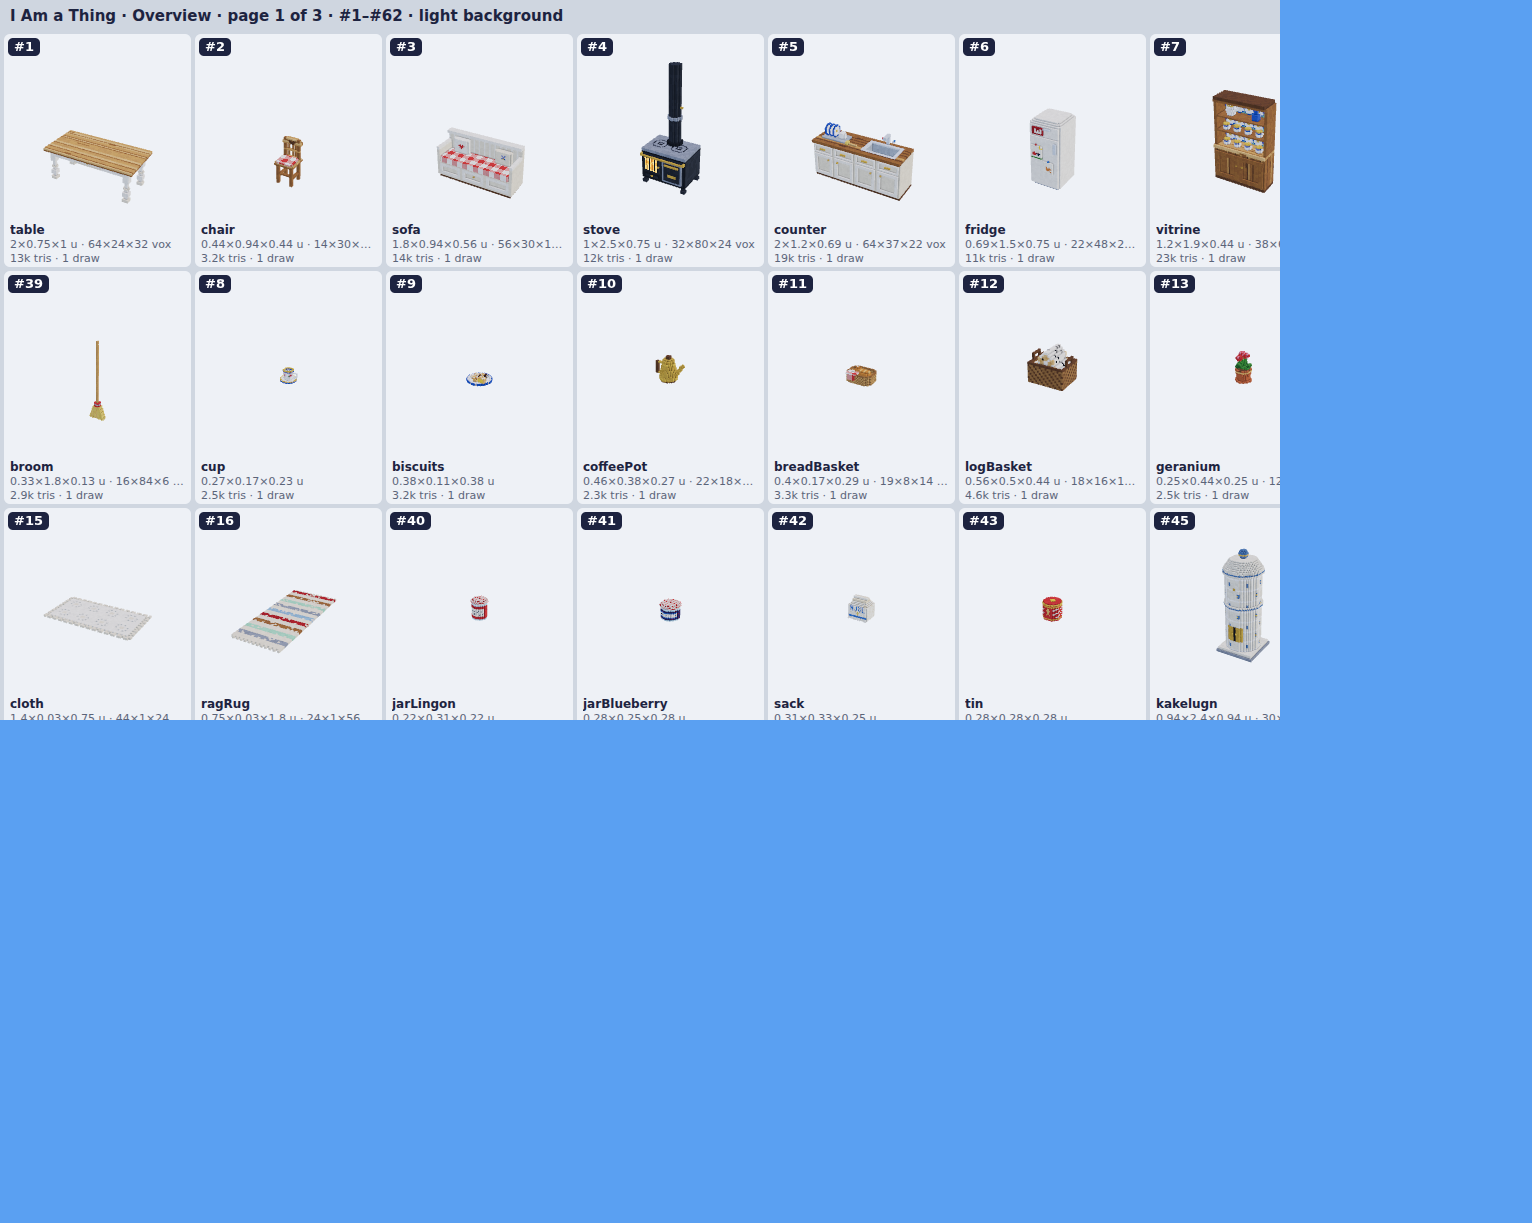
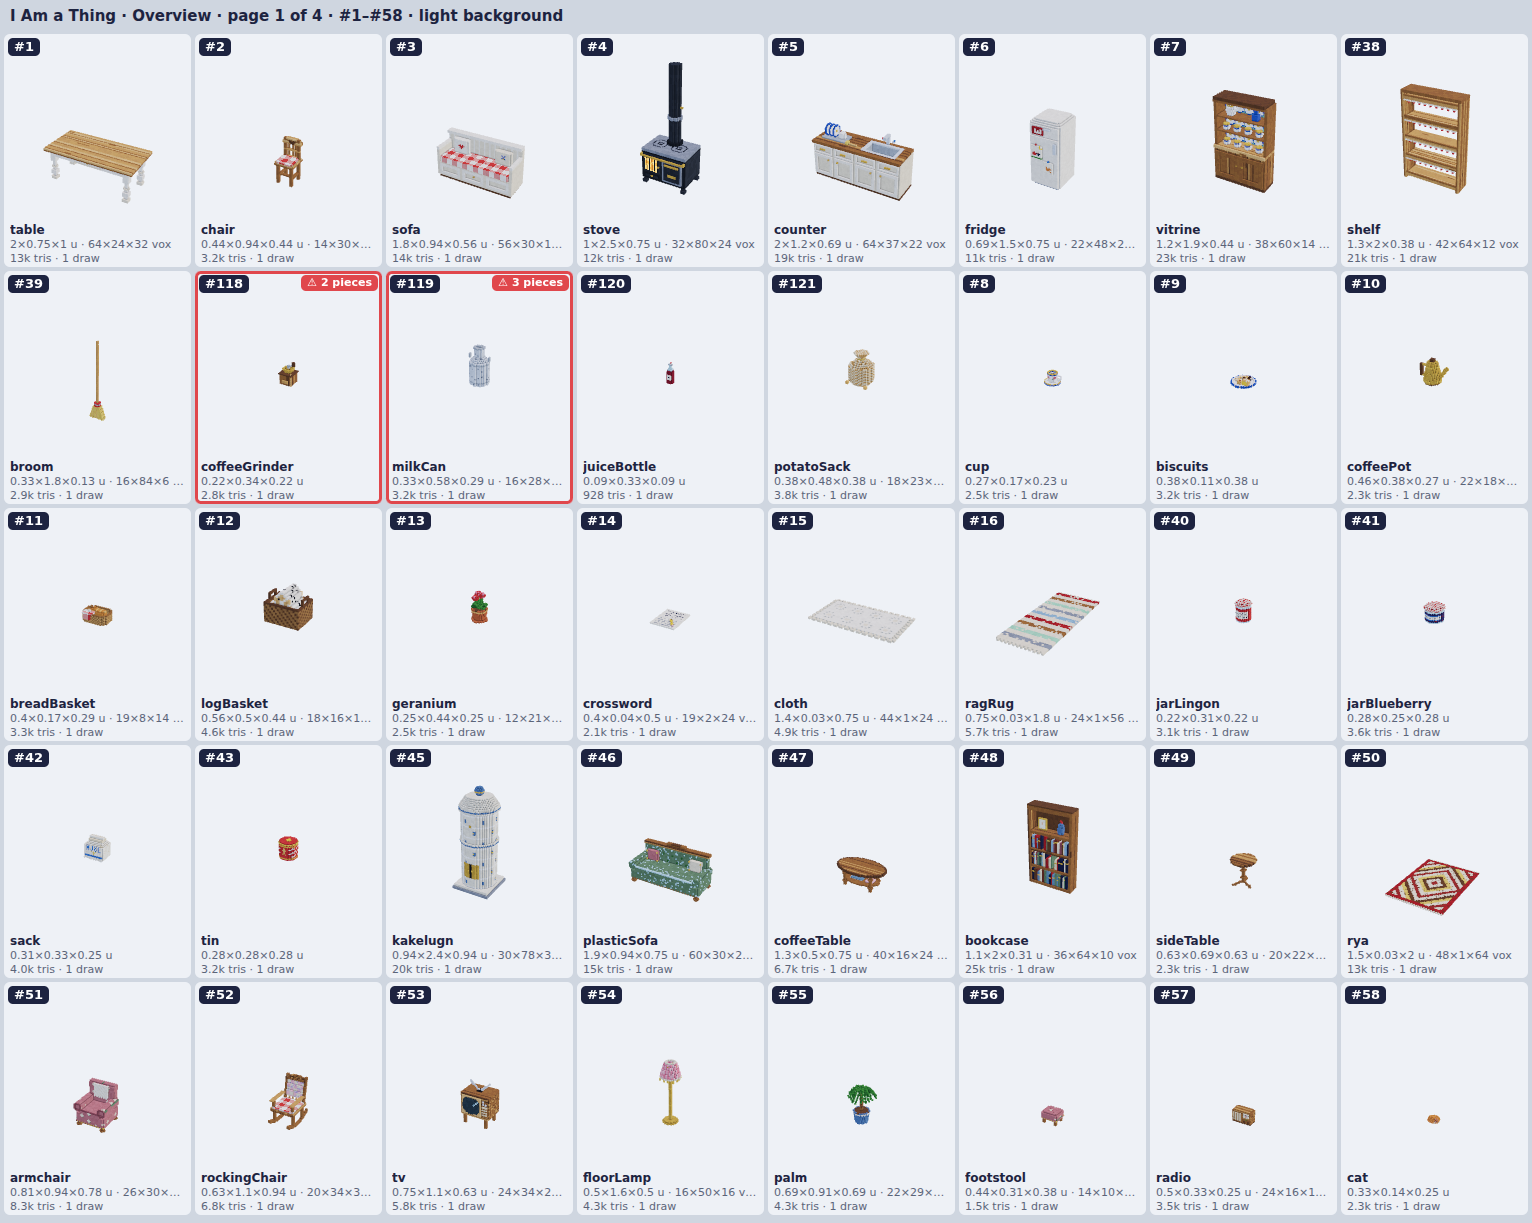
Gökuren slår varje minut; moraklocka, hallbänk, blomsterpallar, skor, våg
Every whole minute of the seeking the cuckoo clock strikes: ko-ko, a
banner, and every small real thing in the house rattles on its base, so a
vätte that stands quite still through it is the one thing that doesn't.

More to hide as in the thin rooms: a painted Mora clock and a plant stand
with ivy in the hall, shoes in farstun, a bathroom scale. The front door
is seen from the path too; floating parts joined (grinder crank, churn
handles, ivy, the barrow's axle); a darker bathroom floor.

Claude-Session: https://claude.ai/code/session_01Y6MZe7NhWEZPxEuSNh2RSa

diff --git a/models-hall.ts b/models-hall.ts
@@ -224,7 +224,72 @@ function globeGlow(k: Ids) {
   return hang(v, 1 / 40);
 }
 
+/** Moraklockan: a tall painted long-case clock, curved like a woman's figure, a round face, a crown on top, a pendulum window. */
+function moraClock(k: Ids) {
+  const v = new Volume(18, 72, 12);
+  for (let y = 0; y < 66; y++) {
+    const w = y < 6 ? 8 : y < 50 ? 6.2 + 1.8 * Math.cos(((y - 6) / 44) * Math.PI * 2) * 0.5 + (y > 36 ? (y - 36) * 0.12 : 0) : 8.2;
+    box(v, Math.round(9 - w), y, 1, Math.round(9 + w), y + 1, 11, y < 2 ? k.WOOD_DEEP : k.ALLMOGE);
+  }
+  for (let y = 18; y < 40; y++) dot(v, 9, y, 11, y % 9 === 0 ? k.GOLD : k.CREAM);   // the painted stripe down the waist
+  for (const [y0, cx] of [[12, 9], [28, 9]] as const) for (const [dx, dy, c] of [[0, 0, k.ALLMOGE_RED], [-1, 0, k.RED], [1, 0, k.RED], [0, 1, k.WHITE], [0, -1, k.GREEN], [-2, -1, k.GREEN], [2, -1, k.GREEN]] as const) dot(v, cx + dx, y0 + dy, 11, c);
+  box(v, 6, 40, 11, 12, 48, 12, k.GLASS);                    // the pendulum window
+  blob(v, 9, 42.5, 11.5, 1.6, 1.6, 0.5, k.GOLD);
+  for (let y = 50; y < 66; y++) for (let x = 1; x < 17; x++) {
+    const d = Math.hypot(x + 0.5 - 9, y + 0.5 - 58);
+    if (d < 6.6) dot(v, x, y, 11, d > 5.8 ? k.GOLD : d < 0.8 ? k.BRASS : k.PORC);
+  }
+  for (let i = 0; i < 12; i++) { const a = (i / 12) * Math.PI * 2; dot(v, Math.floor(9 + Math.sin(a) * 4.8), Math.floor(58 + Math.cos(a) * 4.8), 11, k.INK); }
+  line(v, [9, 58, 11.5], [9, 62, 11.5], k.INK);
+  line(v, [9, 58, 11.5], [12, 57, 11.5], k.INK);
+  for (let y = 66; y < 72; y++) { const w = 8 - (y - 66) * 1.2; if (w > 0) box(v, Math.round(9 - w), y, 1, Math.round(9 + w), y + 1, 11, y === 66 ? k.GOLD : k.ALLMOGE); }
+  return prop(v, H);
+}
+
+/** Hallbänken: a long painted bench with a lid seat and a cushion. */
+function hallBench(k: Ids) {
+  const v = new Volume(40, 28, 14);
+  box(v, 0, 0, 0, 40, 14, 13, k.ALLMOGE);
+  for (const [x0, x1] of [[2, 19], [21, 38]]) { box(v, x0, 2, 13, x1, 12, 14, k.ALLMOGE); box(v, x0 + 2, 4, 13, x1 - 2, 10, 14, k.CREAM); }
+  box(v, 0, 14, 0, 40, 15, 14, k.WOOD_DARK);
+  roundBox(v, 2, 15, 2, 38, 17, 13, 2, k.GINGHAM);
+  box(v, 0, 15, 0, 40, 28, 2, k.ALLMOGE);
+  box(v, 0, 26, 0, 40, 28, 3, k.WOOD_DARK);
+  return prop(v, H);
+}
+
+/** En blomsterpall: a turned plant stand with a pot of trailing ivy. */
+function plantStand(k: Ids) {
+  const v = new Volume(16, 44, 16);
+  lathe(v, 8, 8, 0, 2, () => 6, k.WOOD_DARK);
+  lathe(v, 8, 8, 2, 28, (y) => (y % 7 === 0 ? 2 : 1.2), k.WOOD_DARK);
+  lathe(v, 8, 8, 28, 30, () => 6.4, k.WOOD_DARK);
+  lathe(v, 8, 8, 30, 36, (y) => 3.6 + (y - 30) * 0.3, k.POT);
+  for (let i = 0; i < 7; i++) {
+    const a = (i / 7) * Math.PI * 2;
+    // A strand of ivy from the pot's rim, trailing down over the stand.
+    const at = (s: number): [number, number, number] => [8 + Math.cos(a + s * 0.08) * (3.6 + s * 0.35), 36 - s * 1.3, 8 + Math.sin(a + s * 0.08) * (3.6 + s * 0.35)];
+    for (let s = 0; s < 13; s++) line(v, at(s), at(s + 1), s % 3 === 0 ? k.LEAF : k.GREEN);
+  }
+  blob(v, 8, 38, 8, 4, 2.5, 4, speckle(k.GREEN, k.LEAF, 0.3, 75));
+  return prop(v, H);
+}
+
+/** Ett par skor: polished brown lace-ups. */
+function shoes(k: Ids) {
+  const v = new Volume(14, 7, 16);
+  for (const x0 of [0, 8]) {
+    roundBox(v, x0, 0, 0, x0 + 6, 1, 16, 2, k.SOOT);
+    roundBox(v, x0, 1, 0, x0 + 6, 4, 16, 2, k.MAHOGANY);
+    roundBox(v, x0, 4, 0, x0 + 6, 6, 7, 2, k.MAHOGANY);
+    for (let z = 6; z < 11; z += 2) { dot(v, x0 + 2, 4, z, k.CREAM); dot(v, x0 + 3, 4, z, k.CREAM); }
+    dot(v, x0 + 2, 3, 15, k.WOOD_LIGHT);
+  }
+  return prop(v, Q);
+}
+
 export const HALL_MODELS = {
+  moraClock, hallBench, plantStand, shoes,
   hatRack, boots, umbrella, umbrellaStand, stool, phone, phoneTable, mirror, runner, frontDoor, doormat, shoeRack,
   hat, handbag, globeLamp, globeGlow,
 };

diff --git a/gallery.ts b/gallery.ts
@@ -17,14 +17,14 @@ const WALL: ModelKey[] = ['upper', 'curtains', 'lamp', 'bulb', 'potholder', 'clo
 /** The rest of the house, room by room: furniture first, then what a vätte can be. */
 const ROOMS_GALLERY: [string, ModelKey[]][] = [
   ['Vardagsrummet', ['kakelugn', 'plasticSofa', 'coffeeTable', 'bookcase', 'sideTable', 'rya', 'armchair', 'rockingChair', 'tv', 'floorLamp', 'palm', 'footstool', 'radio', 'cat', 'bookStack', 'album', 'doily', 'dalahorse', 'dalahorseBlue']],
-  ['Hallen och farstun', ['phoneTable', 'shoeRack', 'umbrellaStand', 'runner', 'doormat', 'stool', 'boots', 'umbrella', 'phone', 'hat', 'handbag']],
+  ['Hallen och farstun', ['moraClock', 'hallBench', 'plantStand', 'shoes', 'phoneTable', 'shoeRack', 'umbrellaStand', 'runner', 'doormat', 'stool', 'boots', 'umbrella', 'phone', 'hat', 'handbag']],
   ['Sovrummet', ['bed', 'wardrobe', 'nightstand', 'dresser', 'pillow', 'hatbox', 'slippers', 'alarmClock', 'teeth', 'tableLamp']],
-  ['Badrummet', ['bathtub', 'washbasin', 'toilet', 'bathMat', 'laundryBasket', 'foldedTowel', 'soapDish', 'duck', 'rollDoll', 'chamberPot']],
+  ['Badrummet', ['scale', 'bathtub', 'washbasin', 'toilet', 'bathMat', 'laundryBasket', 'foldedTowel', 'soapDish', 'duck', 'rollDoll', 'chamberPot']],
   ['Trädgården', ['gardenTable', 'woodpile', 'birdBath', 'currantBush', 'rake', 'gardenChair', 'wheelbarrow', 'rainBarrel', 'gnome', 'wateringCan', 'flowerPotYellow', 'flowerPotRed', 'log', 'kubb', 'kubbKing']],
   ['Syrummet', ['workTable', 'ironingBoard', 'yarnBasket', 'sewingMachine', 'chest', 'dressForm', 'fabricBolt', 'sewingTin', 'iron', 'yarnRed', 'yarnBlue', 'yarnYellow']],
 ];
 /** Pairs (boots, slippers): two pieces on purpose. */
-const PAIRS: ModelKey[] = ['boots', 'slippers'];
+const PAIRS: ModelKey[] = ['boots', 'slippers', 'shoes'];
 const WALL_ROOMS: ModelKey[] = ['cuckooClock', 'portrait', 'laceCurtains', 'chandelier', 'hatRack', 'mirror', 'frontDoor', 'globeLamp', 'painting', 'mirrorCabinet', 'towelRail'];
 const GLOW_OF: Partial<Record<ModelKey, ModelKey>> = { lamp: 'lampGlow', bulb: 'bulbGlow', chandelier: 'chandelierGlow', globeLamp: 'globeGlow', floorLamp: 'floorLampGlow', tableLamp: 'tableLampGlow' };
 

diff --git a/game.ts b/game.ts
@@ -20,7 +20,7 @@ import { GUN_VOXEL, KUSIN_VOXEL, VATTE_VOXEL, dart, kusin, kusinLook, suctionGun
 import { Core, type Cue, type Pawn } from './core';
 import { PHOTOS, type LookName, type PhotoPoint } from './look';
 import { buildModels, type ModelKey } from './models';
-import { MAX_HP, WRONG, type Phase } from './rules';
+import { MAX_HP, SEEK_MS, WRONG, type Phase } from './rules';
 import { KitchenScene } from './scene';
 import { SOUNDS } from './sounds';
 import { BLOCKS, TEXTURES, type Ids } from './textures';
@@ -93,6 +93,8 @@ export class Shooter implements GameStage {
   private photoAt: PhotoPoint | null = null;
   private readonly shownFrags = new Map<string, string>();
   private lastTick = -1;
+  /** The last whole minute of the seeking the cuckoo clock struck. */
+  private cuckooMinute = 0;
   /** The role the touch buttons are set for. */
   private touchRole: 'k' | 'v' | null = null;
   /** Who won the round that just ended, for the board. */
@@ -478,6 +480,16 @@ export class Shooter implements GameStage {
     const st = me ? core.match.stats.get(me.pid) : undefined, playing = !!me && flow.live && core.alive(me);
     const left = Math.max(0, (core.match.until - link.now()) / 1000);
     // The last ten seconds of hiding (or seeking) tick.
+    // Gökuren slår every whole minute of the seeking: ko-ko, and every small real thing in the house
+    // rattles. (A vätte that stands quite still through it is the one thing that doesn't.)
+    const minute = flow.live && core.phase === 'seek' ? Math.floor((SEEK_MS - left * 1000) / 60_000) : 0;
+    if (minute > this.cuckooMinute) {
+      this.sfx.play(SOUNDS.cuckoo);
+      this.sfx.play(SOUNDS.rattle);
+      this.hud.center(`Gökuren slår ${minute}! <small>Allt smått skramlar</small>`);
+      for (const th of REAL_THINGS) if (th.h < 0.4 && th.y > -0.2) this.kitchen.wobble(th.p);
+    }
+    this.cuckooMinute = minute;
     if (flow.live && core.phase !== 'wait' && core.phase !== 'end' && left < 10.5 && Math.ceil(left) !== this.lastTick) {
       this.lastTick = Math.ceil(left);
       if (this.lastTick > 0) this.sfx.play(SOUNDS.tick);

diff --git a/things.ts b/things.ts
@@ -63,6 +63,9 @@ export const FORMS: readonly FormDef[] = [
   { key: 'phone', name: 'telefon', some: 'telefoner', the: 'telefonerna', hp: 1, speed: 0.95 },
   { key: 'hat', name: 'hatt', some: 'hattar', the: 'hattarna', hp: 1, speed: 1 },
   { key: 'handbag', name: 'handväska', some: 'handväskor', the: 'handväskorna', hp: 1, speed: 0.95 },
+  { key: 'moraClock', name: 'moraklocka', some: 'moraklockor', the: 'moraklockorna', hp: 4, speed: 0.3 },
+  { key: 'plantStand', name: 'blomsterpall', some: 'blomsterpallar', the: 'blomsterpallarna', hp: 2, speed: 0.6 },
+  { key: 'shoes', name: 'par skor', some: 'par skor', the: 'skorna', hp: 1, speed: 1, ett: true },
   // Sovrummet.
   { key: 'pillow', name: 'kudde', some: 'kuddar', the: 'kuddarna', hp: 1, speed: 0.95 },
   { key: 'alarmClock', name: 'väckarklocka', some: 'väckarklockor', the: 'väckarklockorna', hp: 1, speed: 1 },
@@ -77,6 +80,7 @@ export const FORMS: readonly FormDef[] = [
   { key: 'duck', name: 'badanka', some: 'badankor', the: 'badankorna', hp: 1, speed: 1.1 },
   { key: 'laundryBasket', name: 'tvättkorg', some: 'tvättkorgar', the: 'tvättkorgarna', hp: 2, speed: 0.75 },
   { key: 'rollDoll', name: 'toarullsdocka', some: 'toarullsdockor', the: 'toarullsdockorna', hp: 1, speed: 1 },
+  { key: 'scale', name: 'badrumsvåg', some: 'badrumsvågar', the: 'badrumsvågarna', hp: 1, speed: 0.9 },
   { key: 'chamberPot', name: 'potta', some: 'pottor', the: 'pottorna', hp: 1, speed: 0.9 },
   // Syrummet.
   { key: 'sewingMachine', name: 'symaskin', some: 'symaskiner', the: 'symaskinerna', hp: 2, speed: 0.6 },

diff --git a/props.ts b/props.ts
@@ -84,11 +84,18 @@ export const HALL_PROPS: Placed[] = [
   t('umbrella', 9.75, 0, 7.25, 0),
   t('handbag', -6.75, 0, 7.2, 0.5),
   t('bookStack', 9.6, 0, 5.6, 0.8),
+  t('moraClock', -2.0, 0, 7.3, N, { solid: true }),
+  f('hallBench', 6.5, 0, 5.47, 0),
+  t('plantStand', 4.2, 0, 5.5, 0.3),
+  t('plantStand', -6.65, 0, 7.15, 1.2),
+  t('shoes', 5.6, 0, 7.2, 0.3),
+  t('handbag', 6.9, 0.53, 5.5, 0.2),
 ];
 
 /** Farstun: the front door (closed: the kusiner start here), the mat, shoes, boots, umbrellas, coats on hooks. */
 export const ENTRY_PROPS: Placed[] = [
   p('frontDoor', 3.0, 0, 10, N),
+  p('frontDoor', 3.0, 0, 10.25, 0),   // the same door seen from the front path
   p('doormat', 3.0, 0, 9.55, 0),
   f('shoeRack', 1.92, 0, 8.9, E),
   p('hatRack', 4.25, 0.75, 8.9, W),
@@ -101,6 +108,8 @@ export const ENTRY_PROPS: Placed[] = [
   t('stool', 2.35, 0, 8.05, 0.9),
   t('hat', 2.35, 0.4375, 8.05, 0.2),
   t('handbag', 2.0, 0.375, 8.45, E),
+  t('shoes', 2.1, 0, 7.95, 0.2),
+  t('shoes', 3.3, 0, 9.6, 2.9),
 ];
 
 /** Badrummet: the clawfoot tub, the basin under its mirror cabinet, the toilet, towels, a duck in the bath. */
@@ -123,6 +132,7 @@ export const BATH_PROPS: Placed[] = [
   t('laundryBasket', -1.45, 0, 8.05, 0),
   t('rollDoll', 1.3, 0, 10.25, W),
   t('chamberPot', -0.05, 0, 10.25, 0.5),
+  t('scale', 0.75, 0, 9.95, W + 0.3),
 ];
 
 /** Sovrummet: the bed against the east wall between two nightstands, the dresser, the wardrobe with hat boxes on top. */

diff --git a/sounds.ts b/sounds.ts
@@ -168,6 +168,24 @@ export const SOUNDS = {
     reverb: 0.2,
     layers: [{ wave: 'sine', freq: 1568, steps: [0, -5], stepTime: 0.18, env: { a: 0.01, d: 0.4, s: 0 }, dur: 0.38 }],
   },
+  /** Gökuren: "ko-ko" twice, a wooden whistle with a little bellows breath. */
+  cuckoo: {
+    vol: 0.4,
+    reverb: 0.3,
+    layers: [
+      { wave: 'triangle', freq: 784, steps: [0, -4, -100, 0, -4], stepTime: 0.28, env: { a: 0.01, d: 0.2, s: 0.3, r: 0.08 }, dur: 1.3, vol: 0.8, filter: { type: 'lowpass', freq: 2400 } },
+      { wave: 'noise', env: { a: 0.02, d: 0.12, s: 0 }, vol: 0.12, filter: { type: 'bandpass', freq: 1200 } },
+    ],
+  },
+  /** Everything small in the house rattles on its shelf. */
+  rattle: {
+    vol: 0.22,
+    // Many little knocks: short noise bursts stepped quickly, like china and tins on a shelf.
+    layers: [
+      { wave: 'noise', steps: [0, 0, 0, 0, 0, 0, 0, 0], stepTime: 0.06, env: { a: 0.002, d: 0.03, s: 0 }, dur: 0.5, vol: 0.7, filter: { type: 'bandpass', freq: 3200 } },
+      { wave: 'triangle', freq: 2600, steps: [0, 3, -2, 5, 0, 4], stepTime: 0.07, env: { a: 0.001, d: 0.03, s: 0 }, dur: 0.45, vol: 0.25 },
+    ],
+  },
   /** A tick for the last seconds of a phase. */
   tick: {
     vol: 0.18,

diff --git a/models.ts b/models.ts
@@ -600,7 +600,7 @@ function coffeeGrinder(k: Ids) {
   box(v, 0, 10, 0, 14, 11, 14, k.WOOD_DEEP);
   lathe(v, 7, 7, 11, 15, (y) => 3.2 + (y - 11) * 0.7, k.BRASS, (y) => (y < 12 ? 0 : 2.2 + (y - 11) * 0.7));
   lathe(v, 7, 7, 11, 13, () => 1.4, k.COFFEE);
-  box(v, 6, 15, 6, 8, 18, 8, k.STEEL);
+  box(v, 6, 11, 6, 8, 18, 8, k.STEEL);
   line(v, [7, 17.5, 7], [12.5, 18.5, 7], k.STEEL);
   lathe(v, 12.5, 7.5, 18, 22, () => 1.1, k.WOOD_DEEP);
   return prop(v, S);
@@ -612,7 +612,7 @@ function milkCan(k: Ids) {
   lathe(v, 8, 8, 0, 26, (y) => (y < 16 ? 6.6 : y < 20 ? 6.6 - (y - 16) * 0.9 : 3.2), (x, y, z) => (y === 2 || y === 15 ? k.STEEL : hash(x, y, z, 111) < 0.05 ? k.GREY : k.STEEL_LIGHT));
   lathe(v, 8, 8, 26, 27, () => 3.8, k.STEEL);
   box(v, 6, 27, 7, 10, 28, 9, k.STEEL);
-  for (const x of [0, 15]) box(v, x, 18, 7, x + 1, 21, 9, k.STEEL);
+  for (const x of [0, 15]) box(v, x, 10, 7, x + 1, 13, 9, k.STEEL);
   return prop(v, Q);
 }
 

diff --git a/models-badrum.ts b/models-badrum.ts
@@ -161,7 +161,21 @@ function bathMat(k: Ids) {
   return prop(v, H);
 }
 
+/** Badrumsvågen: an old white scale with a round dial and a ribbed rubber mat. */
+function scale(k: Ids) {
+  const v = new Volume(18, 5, 22);
+  roundBox(v, 0, 0, 0, 18, 3, 22, 3, k.CERAMIC);
+  for (let z = 7; z < 20; z++) for (let x = 2; x < 16; x++) if (z % 2) dot(v, x, 3, z, k.GREY);
+  for (let x = 4; x < 14; x++) for (let z = 1; z < 7; z++) {
+    const d = Math.hypot(x + 0.5 - 9, z + 0.5 - 4);
+    if (d < 3) dot(v, x, 3, z, d > 2.3 ? k.STEEL_LIGHT : d < 0.6 ? k.RED : k.PAPER);
+  }
+  line(v, [9, 3.5, 4], [10.5, 3.5, 2.6], k.RED);
+  return prop(v, Q);
+}
+
 export const BATH_MODELS = {
+  scale,
   bathtub, washbasin, toilet, mirrorCabinet, foldedTowel, soapDish, duck, laundryBasket, rollDoll, chamberPot, towelRail, bathMat,
 };
 export { angleOf };

diff --git a/models-tradgard.ts b/models-tradgard.ts
@@ -62,7 +62,7 @@ function wheelbarrow(k: Ids) {
     for (const x of [10, 11]) dot(v, x, Math.floor(6 + Math.sin(a) * 5.4), Math.floor(45 + Math.cos(a) * 5.4), k.IRON);
   }
   cylX(v, 6, 45, 4.6, 10, 12, k.WOOD);
-  cylX(v, 6, 45, 1, 9, 13, k.IRON);
+  cylX(v, 6, 45, 1, 2, 20, k.IRON);   // the axle, through the wheel to both handles
   for (const x of [2, 18]) {
     line(v, [x + 0.5, 6.5, 45], [x + 0.5, 15, 2], k.WOOD_DARK, 0.9);
     line(v, [x + 0.5, 12, 14], [x + 0.5, 0.5, 16], k.WOOD_DARK, 0.8);

diff --git a/textures.ts b/textures.ts
@@ -100,7 +100,7 @@ function bathTile(p: Px, r: Rng) {
 
 /** Badrumsgolvet: svartvitt schack i små rutor. */
 function bathFloor(p: Px, r: Rng) {
-  p.each((x, y) => p.set(x, y, shade(hex(((x >> 1) + (y >> 1)) & 1 ? '#c4c6bd' : '#efe9dd'), 0.96 + r() * 0.06)));
+  p.each((x, y) => p.set(x, y, shade(hex(((x >> 1) + (y >> 1)) & 1 ? '#7f8680' : '#efe9dd'), 0.96 + r() * 0.06)));
 }
 
 /** Falurött panelträ med lodräta spår. */
